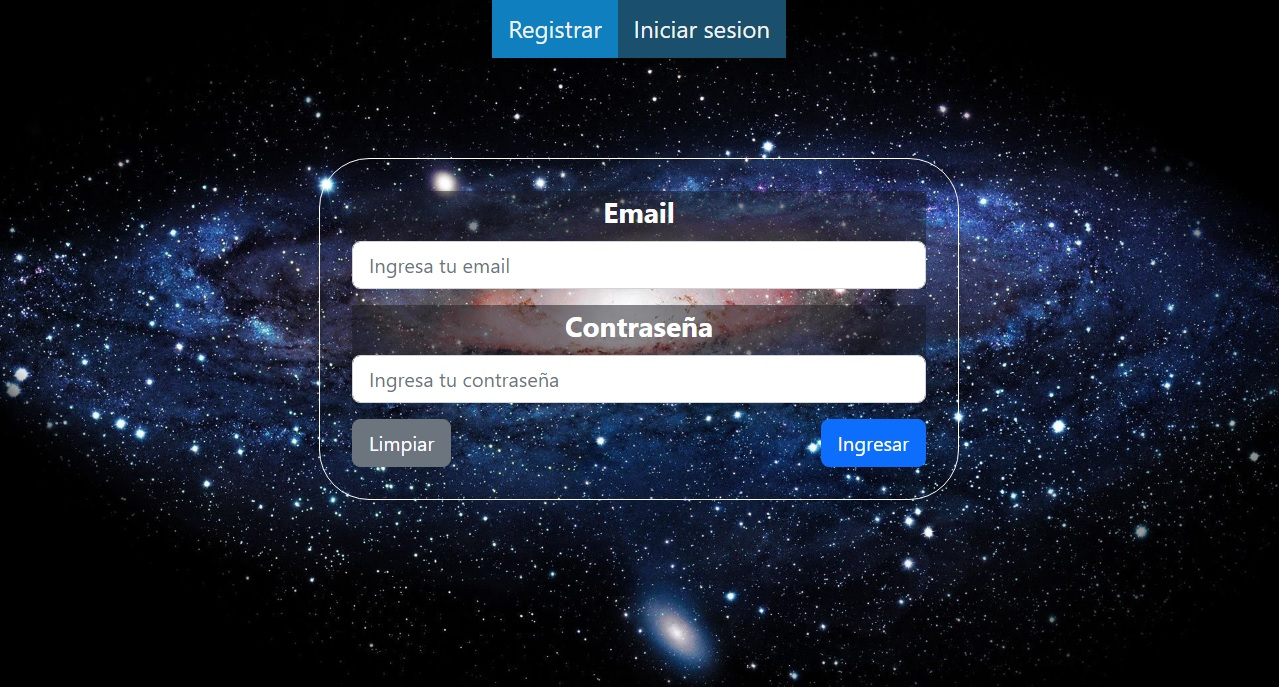
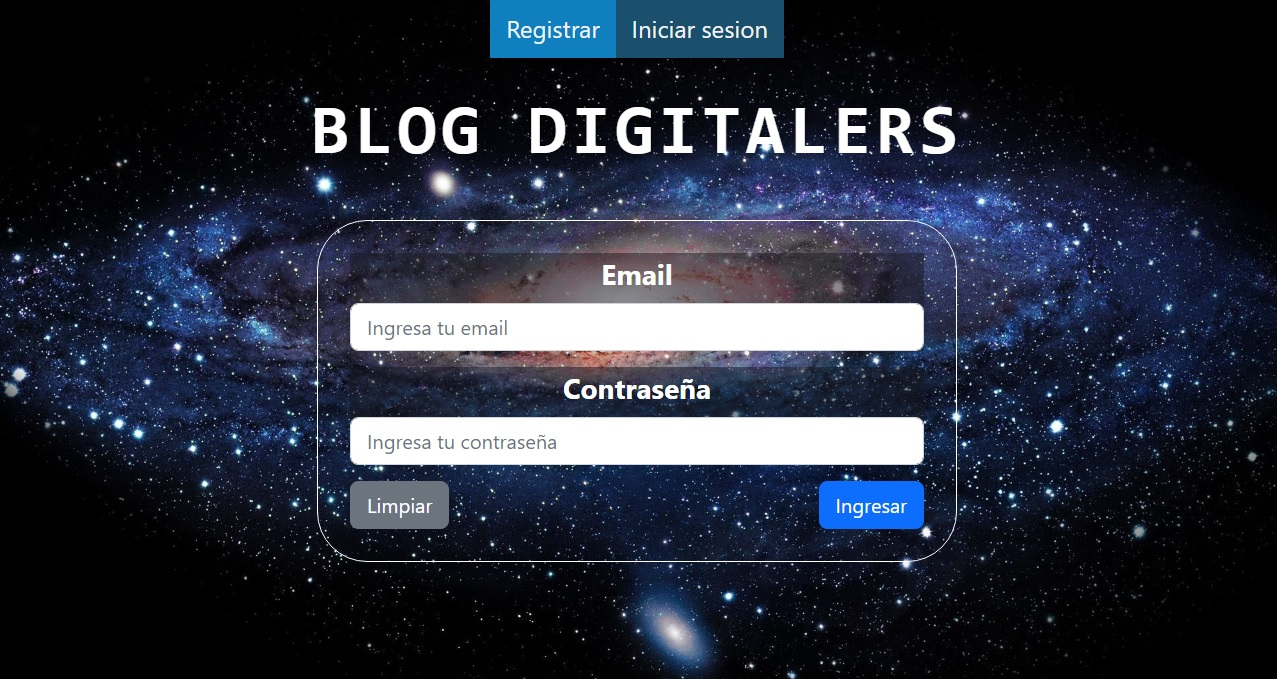
Cambio en alerta de login y register erroneos, y se agrega h1 al frontend

diff --git a/front/src/components/Register.jsx b/front/src/components/Register.jsx
@@ -71,32 +71,40 @@ export default class Register extends Component {
 
         fetch(url, header)
             .then(response => {
-                if (!response.ok) throw Error(response.status);
-                Swal.fire({
-                    title: '¡Registro exitoso!',
-                    icon: 'success'
-                })
                 return response.json();
             }
             )
             .then(json => {
                 console.log(json);
-                setTimeout(()=>{
-                    window.location.href="/";
-                },2000)
+                if(json.email) {
+                    Swal.fire({
+                        title: '¡Registro exitoso!',
+                        icon: 'success'
+                    })
+                    setTimeout(()=>{
+                        window.location.href="/";
+                    },2000)
+                }
+                else {
+                    localStorage.clear();
+                    Swal.fire({
+                        title: json.description,
+                        icon: 'warning',
+                        confirmButtonText: 'Ok'
+                    })
+                }
                 
             })
             .catch(error => {
                 console.error(error);
                 localStorage.clear();
                 Swal.fire({
-                    title: 'Error de registro. Intenta de nuevo con otro email' ,
+                    title: 'Error de registro' ,
                     icon: 'warning',
                     confirmButtonText: 'Ok'
                 })
                 
             });
-        this.cleanValues();
     }
 
     render() {

diff --git a/front/src/components/Login.jsx b/front/src/components/Login.jsx
@@ -49,22 +49,31 @@ export default class Login extends Component {
 
         fetch(url, header)
             .then(response => {
-                if (!response.ok) throw Error(response.status);
                 return response.json();
             }
             )
             .then(json => {
                 console.log(json);
-                localStorage.uuid = json.uuid;
-                localStorage.credential = json.credential;
-                localStorage.userId = json.id;
-                window.location.href="/publications";
+                if (!json.uuid) {
+                    Swal.fire({
+                        title: json.description,
+                        icon: 'warning',
+                        confirmButtonText: 'Ok'
+                    })
+                }
+                else {
+                    localStorage.uuid = json.uuid;
+                    localStorage.credential = json.credential;
+                    localStorage.userId = json.id;
+                    window.location.href="/publications";
+                }
+                
             })
             .catch(error => {
                 console.error(error);
                 localStorage.clear();
                 Swal.fire({
-                    title: 'Credenciales incorrectas',
+                    title: 'Error en inicio de sesion',
                     icon: 'warning',
                     confirmButtonText: 'Ok'
                 })

diff --git a/front/src/components/UpdatePublication.jsx b/front/src/components/UpdatePublication.jsx
@@ -83,7 +83,7 @@ export default class UpdatePublication extends Component{
         return(
             <div className="formUpdate">
                 <Form className="formUpdate" onSubmit={this.post}>
-                    <CloseButton variant="white" onClick={this.props.closeModal}/>
+                    <CloseButton variant="black" onClick={this.props.closeModal}/>
                     <Form.Group className="mb-3 formInputs" controlId="title">
                         <Form.Label>Titulo</Form.Label>
                         <Form.Control

diff --git a/front/src/resources/css/form.css b/front/src/resources/css/form.css
@@ -11,7 +11,7 @@ div {
     width: 70%;
     height: 50%;
     padding: 32px;
-    margin-top: 100px;
+    margin-top: 10px;
    /* background-color: rgb(201, 201, 201,0.6);
     border: none;*/
     border-radius: 50px;
@@ -24,7 +24,7 @@ div {
     width: 100%;
     height: 100%;
     margin: auto;
-    background-image: url("../images/galaxy.jpg");
+    background-image: url("../images/galaxy2.jpg");
     height: 100%;
     background-position: center;
     background-repeat: no-repeat;

diff --git a/front/src/App.jsx b/front/src/App.jsx
@@ -62,12 +62,14 @@ export default class App extends Component {
     render() {
         return (
             <div>
+                
                 <BrowserRouter>
 
                     <nav className="menu">
                         {this.isLocalStorageEmpty()}
                     </nav>
 
+                    <h1 className="main-title">BLOG DIGITALERS</h1>
 
                     <Routes>
                         <Route path="/" element={<Login />} />

diff --git a/front/src/resources/css/app.css b/front/src/resources/css/app.css
@@ -6,3 +6,13 @@ html, body {
     background-size: cover;
     background-attachment: fixed;
 }
+
+.main-title {
+    text-align: center;
+    padding: 30px;
+    font-weight: bold;
+    font-family: consolas,sans-serif;
+    color: white;
+    font-size: 70px;
+    letter-spacing: 5px;
+}

diff --git a/front/src/resources/css/publication.css b/front/src/resources/css/publication.css
@@ -4,7 +4,7 @@
     justify-content: center;
     align-items: center;
     padding: 15px;
-    margin: 20px auto 10px auto;
+    margin: 10px auto 10px auto;
     border-radius: 25px;
     /*background-color: rgba(228, 236, 243, 0.7);*/
     background-color: rgba(21, 21, 35, 0.4);

diff --git a/front/src/resources/css/login.css b/front/src/resources/css/login.css
@@ -10,7 +10,7 @@ div {
 .formLogin {
     width: 50%;
     padding: 32px;
-    margin-top: 100px;
+    margin-top: 10px;
     /*background-color: rgb(201, 201, 201,0.6);*/
     background-color: transparent;
     /*border: none;*/
